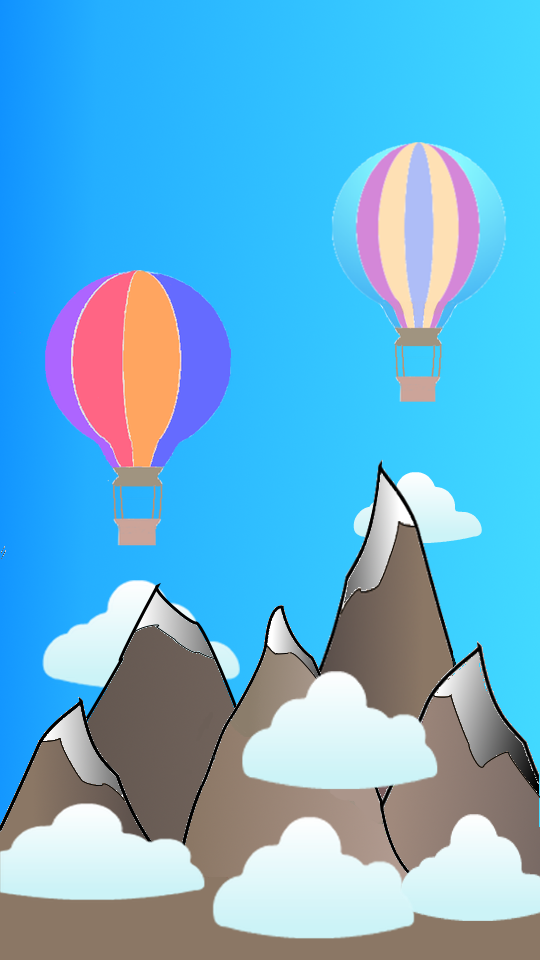
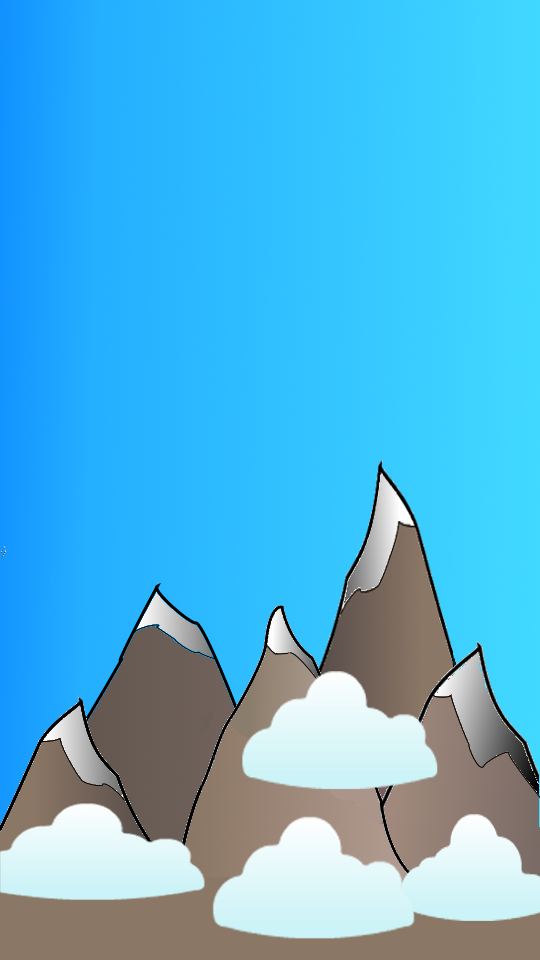
finishing balloons

diff --git a/app/src/main/java/com/funnums/funnums/minigames/BalloonGame.java b/app/src/main/java/com/funnums/funnums/minigames/BalloonGame.java
@@ -157,9 +157,9 @@ public class BalloonGame extends MiniGame {
         initHud();
 
         Bitmap hotAirImg1 = com.funnums.funnums.maingame.GameView.loadBitmap("BalloonGame/HotAir1.png", false);
-        hotAir1 = new HotAirBalloon(hotAirImg1.getWidth()/2, screenY/2, hotAirImg1);
+        hotAir1 = new HotAirBalloon(hotAirImg1.getWidth()/16, topBuffer+hotAirImg1.getHeight()/4, hotAirImg1);
         Bitmap hotAirImg2 = com.funnums.funnums.maingame.GameView.loadBitmap("BalloonGame/HotAir2.png", false);
-        hotAir2 = new HotAirBalloon(screenX - hotAirImg2.getWidth()*3/2, screenY * 3/8, hotAirImg2);
+        hotAir2 = new HotAirBalloon(screenX - hotAirImg2.getWidth(), topBuffer, hotAirImg2);
 
 
         Bitmap directionBoardImg = com.funnums.funnums.maingame.GameView.loadBitmap("BalloonGame/DirectionBoard.png", false);
@@ -295,28 +295,17 @@ public class BalloonGame extends MiniGame {
                                 Log.d("SWIPE", "LEft to RIGHT");
                                 checkSwipeX(y, true);
                             }
-
                             // Right to left swipe action
                             else {
                                 Log.d("SWIPE", "RIGHT to LEFT");
                                 checkSwipeX(y, false);
                             }
-                        } else {
-                            // consider as something else - a screen tap for example
                         }
                         break;
                 }
-                /*if(e.getActionMasked()==MotionEvent.ACTION_DOWN) {
-                int x = (int) e.getX();
-                int y = (int) e.getY();
-
-                if (checkTouchRadius(x, y)) {
-                    //removedNum = true;
-                    break;
-                }
-            }*/
             }
         }
+        //don't let multiple threads working on touch events crash the app
         catch(ConcurrentModificationException ex){
             Log.e("ERROR", ex.toString());
         }
